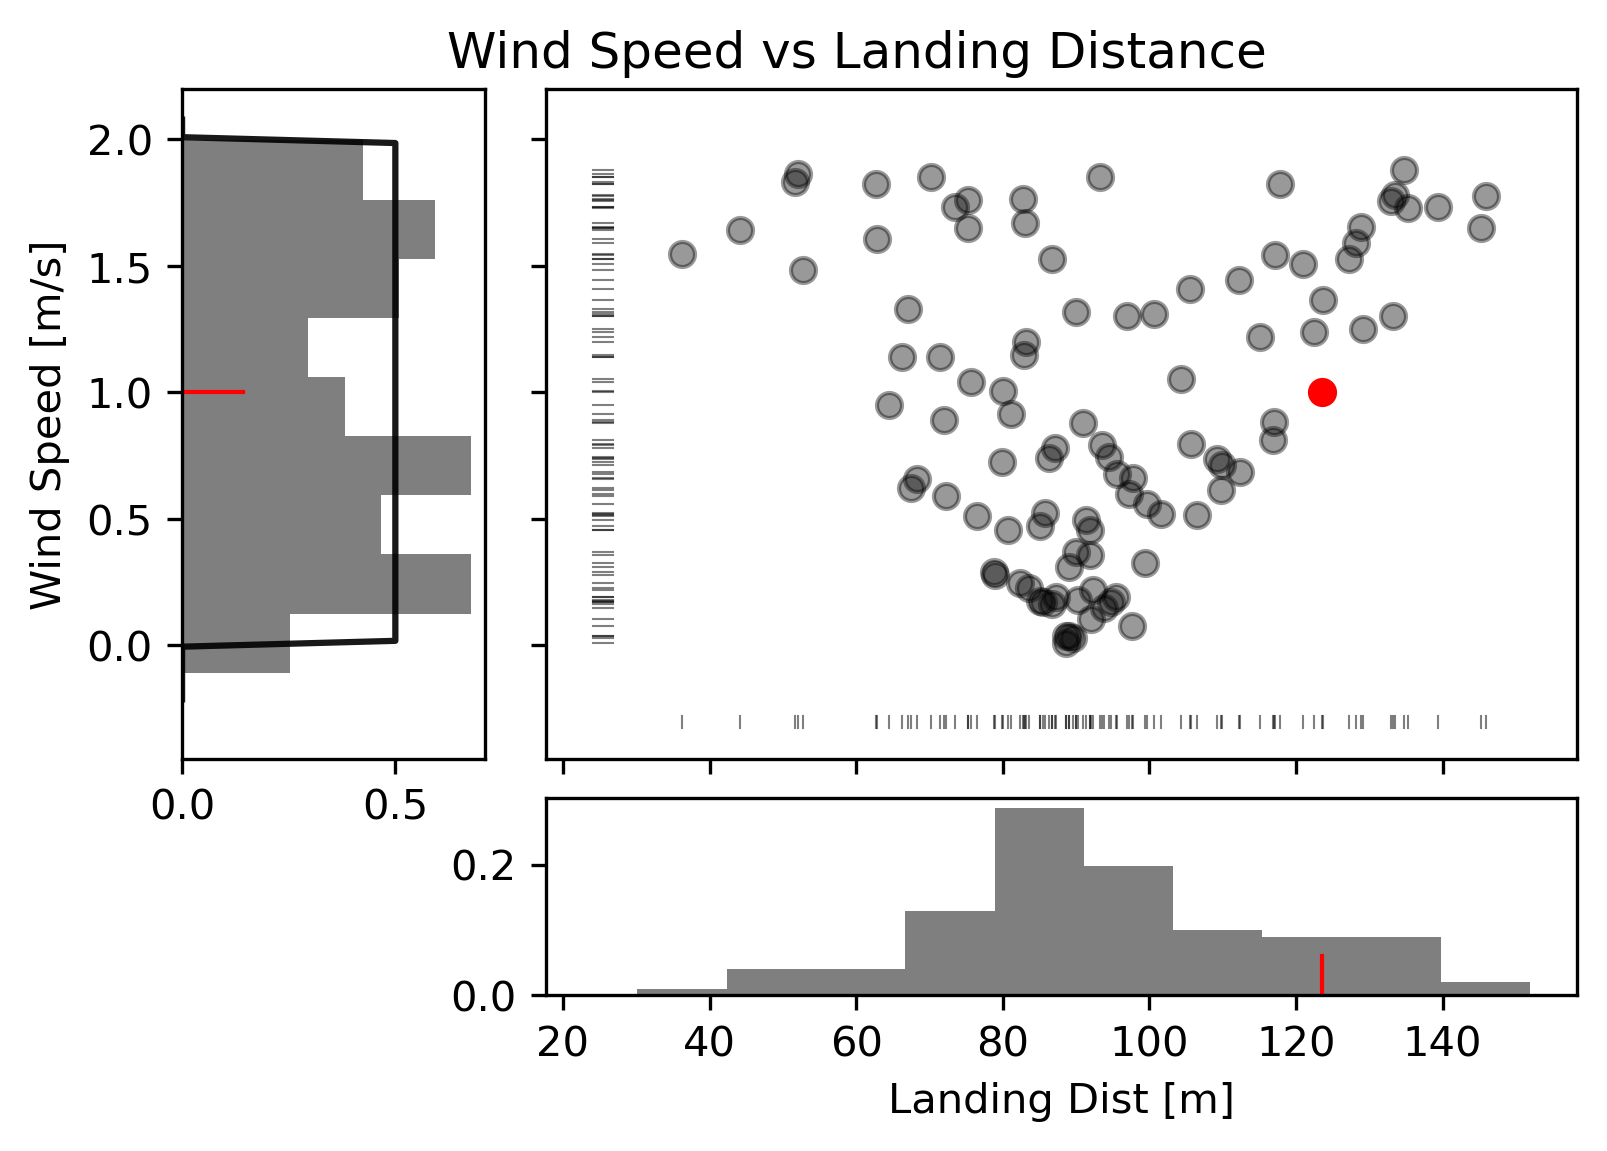
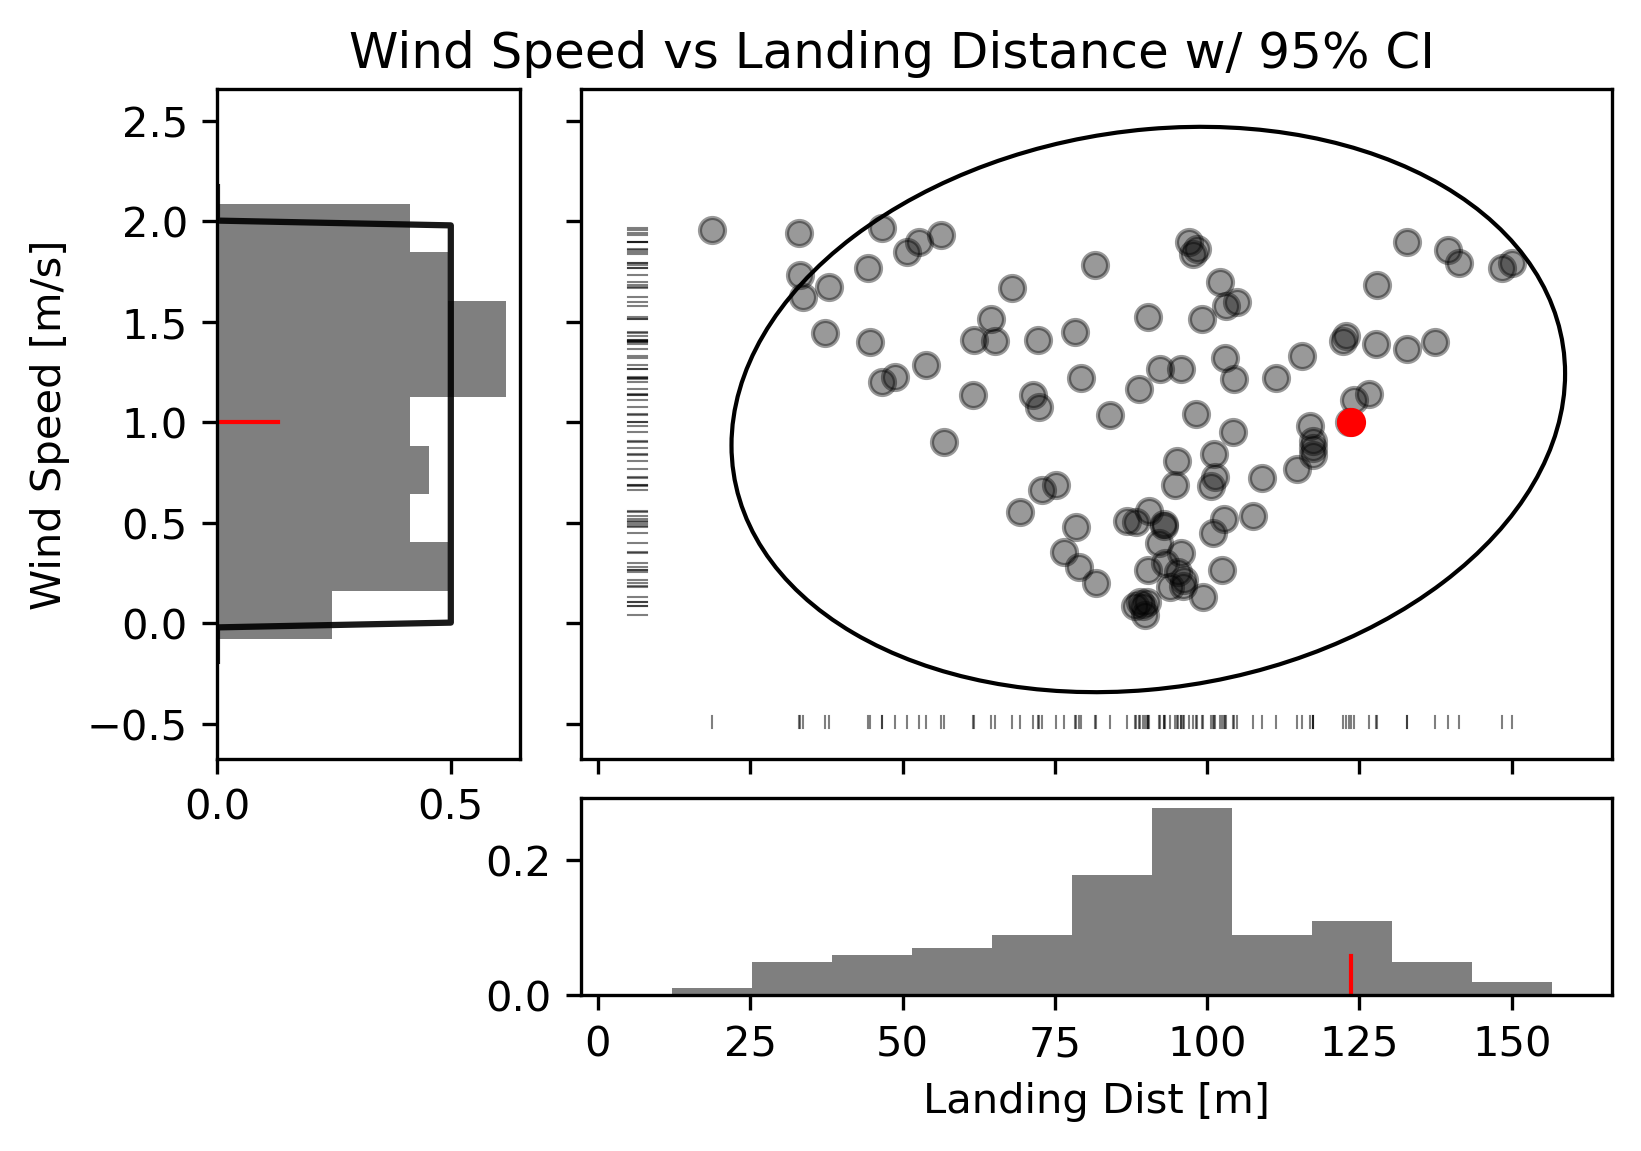
Update examples

diff --git a/examples/early_retirement_investment_portfolio/retirement_example_run_script.py b/examples/early_retirement_investment_portfolio/retirement_example_run_script.py
@@ -33,17 +33,23 @@ def retirement_example_run_script():
     
     wentbrokecases = [i for i, e in enumerate(sim.mcoutvars['Went Broke'].vals) if e == 'Yes']
     
-    mc_plot(sim.mcinvars['Year 0 Returns'], sim.mcoutvars['Final Balance'], highlight_cases=0)
-    mc_plot(sim.mcoutvars['Date'], sim.mcoutvars['Ending Balance'], highlight_cases=wentbrokecases)
+    mc_plot(sim.mcinvars['Year 0 Returns'], sim.mcoutvars['Final Balance'], highlight_cases=0, cov_plot=False)
     mc_plot(sim.mcoutvars['Went Broke'])
+    mc_plot(sim.mcinvars['Beginning Balance'], highlight_cases=0)
+    fix, ax = mc_plot(sim.mcoutvars['Date'], sim.mcoutvars['Ending Balance'], highlight_cases=wentbrokecases, title='Yearly Balances')
+    ax.set_yscale('symlog')
+    ax.set_ylim(bottom=1e4)
     
     sim.genCovarianceMatrix()
     plt.figure()
     yearly_return_broke_corr = []
     for i in range(nyears):
-        yearly_return_broke_corr.append(sim.covs[0][sim.covvarlist.index(f'Year {i} Returns')])
-    plt.plot(range(nyears), yearly_return_broke_corr)
+        yearly_return_broke_corr.append(sim.covs[sim.covvarlist.index('Went Broke')][sim.covvarlist.index(f'Year {i} Returns')])
+    plt.plot(range(nyears), yearly_return_broke_corr, 'k')
     plt.plot(range(nyears), np.zeros(nyears), 'k--')
+    plt.title('Correlation Between Yearly Return and Going Broke')
+    plt.ylabel('Correlation Coeff')
+    plt.xlabel('Year')
 
     return sim
 

diff --git a/examples/early_retirement_investment_portfolio/retirement_example_sim.py b/examples/early_retirement_investment_portfolio/retirement_example_sim.py
@@ -2,11 +2,9 @@ import numpy as np
 import pandas as pd
 
 def retirement_example_sim(yearly_returns, beginning_investments, yearly_spending):
-    # nnodes: total number of nodes
-    # m0: max number of connections made by each new node
-    # p: the probability a node becomes infected if it shares an edge with an infected node
-    # n_infected_init: number of nodes infected at the first timestep
-    # open_scenario: if True, a random node will be attempt to be infected every timestep with probability p
+    # yearly_returns: A list of yearly investment returns
+    # beginning_investments: The money initially invested
+    # yearly_spending: The money withdrawn each year
     
     nyears = len(yearly_returns)
     

diff --git a/examples/rocket/rocket_example_run_script.py b/examples/rocket/rocket_example_run_script.py
@@ -37,7 +37,7 @@ def rocket_example_run_script():
     mc_plot(sim.mcoutvars['Easting [m]'], sim.mcoutvars['Northing [m]'], sim.mcoutvars['Altitude [m]'], title='Model Rocket Trajectory', highlight_cases=0)
     #import matplotlib.pyplot as plt
     #plt.savefig('rocket_trajectory.png')
-    mc_multi_plot(sim.mcoutvars['Landing Dist [m]'], sim.mcinvars['Wind Speed [m/s]'], title='Wind Speed vs Landing Distance', highlight_cases=0)
+    mc_multi_plot(sim.mcoutvars['Landing Dist [m]'], sim.mcinvars['Wind Speed [m/s]'], cov_p=0.95, title='Wind Speed vs Landing Distance w/ 95% CI', highlight_cases=0)
     #plt.savefig('wind_vs_landing.png')
     
     return sim

diff --git a/examples/pandemic/pandemic_example_run_script.py b/examples/pandemic/pandemic_example_run_script.py
@@ -38,7 +38,7 @@ def pandemic_example_run_script():
     # import matplotlib.pyplot as plt
     mc_plot(sim.mcoutvars['Timestep'], sim.mcoutvars['Proportion Infected'], highlight_cases=0)
     # plt.savefig('cum_infections_vs_time.png')
-    mc_multi_plot(sim.mcinvars['Probability of Infection'], sim.mcoutvars['Herd Immunity Threshold'], highlight_cases=0)
+    mc_multi_plot(sim.mcinvars['Probability of Infection'], sim.mcoutvars['Herd Immunity Threshold'], cov_plot=False, highlight_cases=0)
     # plt.savefig('p_infection_vs_herd_immunity.png')
     
     return sim

diff --git a/examples/early_retirement_investment_portfolio/README.md b/examples/early_retirement_investment_portfolio/README.md
@@ -1,3 +1,17 @@
 ## [Monaco](../../) - [Examples](../)
 
 ### Early Retirement Investment Portfolio
+This example simulates drawing down a fixed amount of money each year from an 
+invested lump sum, as an example of monte-carlos applied to financial modeling.
+
+This simulation assumes real rather than nominal values, and S&P500 returns 
+independently drawn each year from a normal distribution modeled on historical 
+returns. This is of course an incredibly simplified model, but it does show 
+some interesting results such as the correlation between investment returns and 
+going broke to be much higher in earlier years (below). In other words, we see 
+the effect of "sequence of returns risk".
+
+<p float="left" align="center">
+<img width="360" height="270" src="./yearly_balances.png">  
+<img width="360" height="270" src="./return_broke_corr.png">
+</p>
